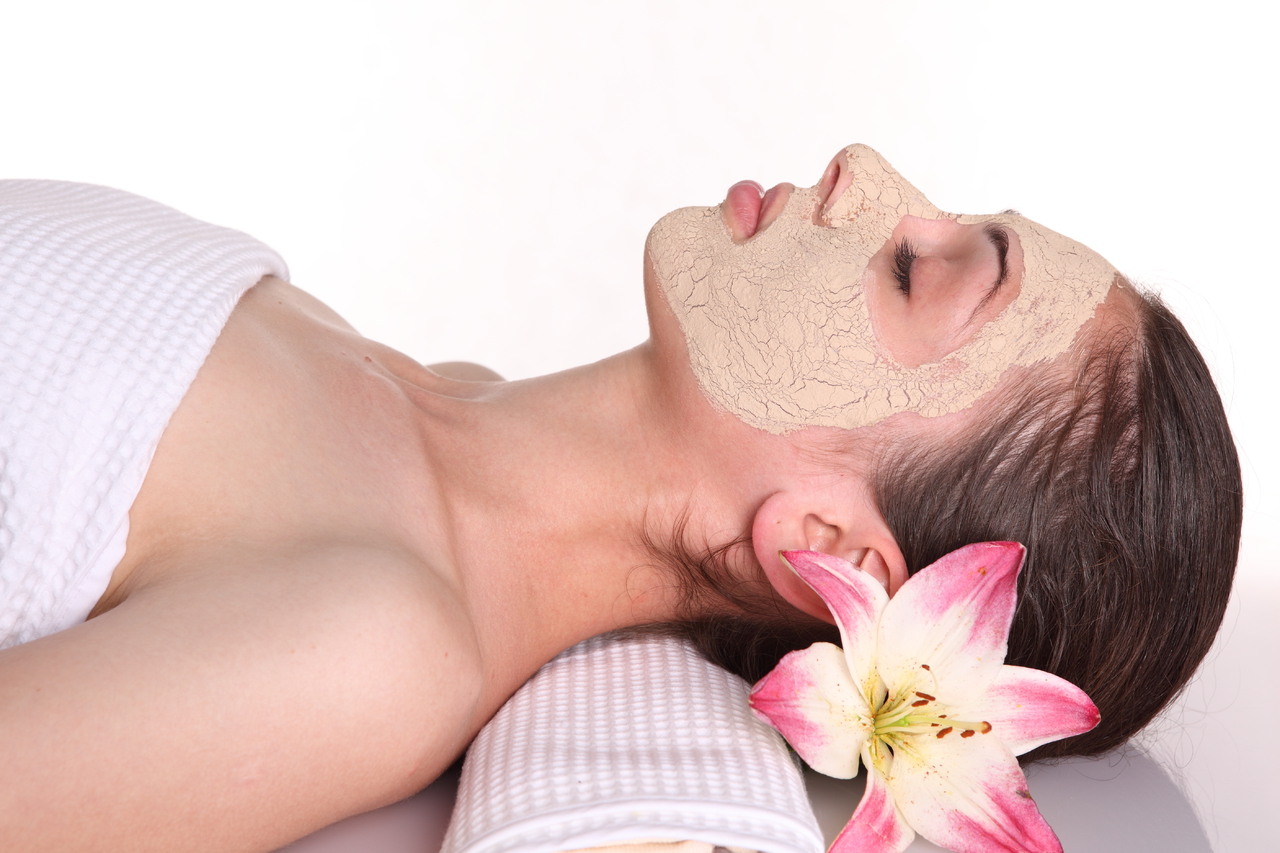
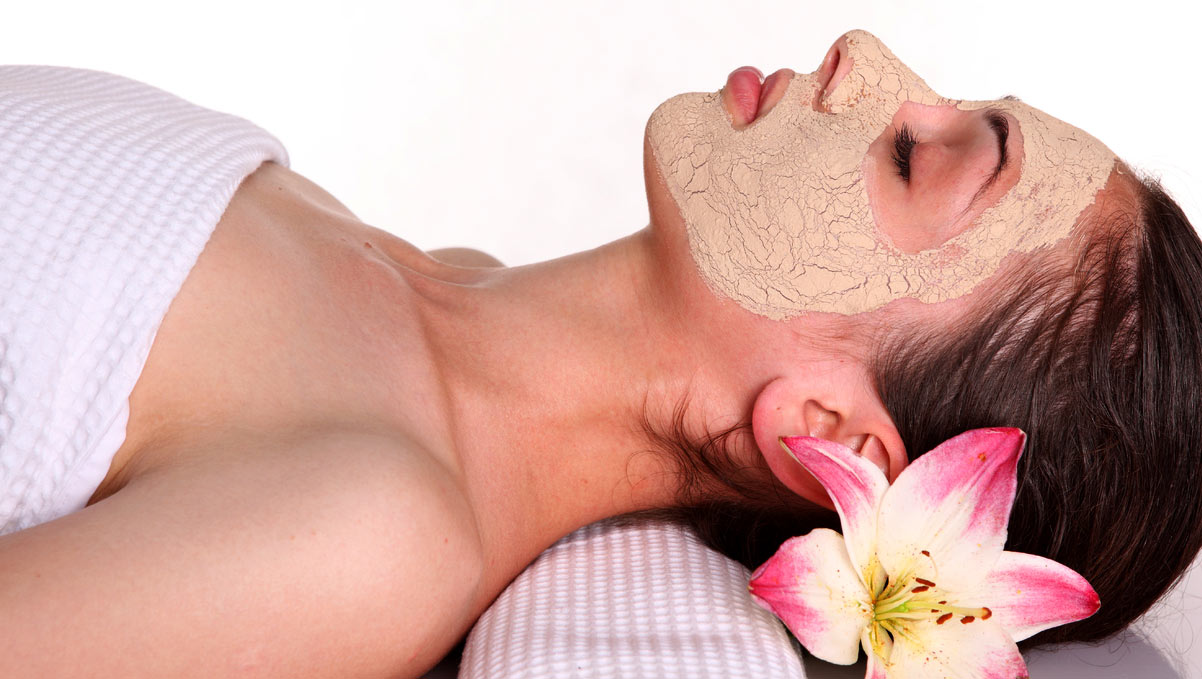
started styling services page

diff --git a/app/assets/stylesheets/services.css.scss b/app/assets/stylesheets/services.css.scss
@@ -1,5 +1,22 @@
 .services {
-  #service_list {
-    margin: 0 auto;
-  }
+	#service_list {
+	margin: 0 auto;
+	}
+
+	#skin{
+		div:first-of-type{
+		background: url('/assets/spa_faceMask.jpg') no-repeat;
+		background-position: center -25px;
+		margin-top:10px;
+		}
+	}
+
+	#sugaring{
+
+		div:first-of-type{
+		background: url('/assets/legs.jpg') no-repeat;
+		background-position: 0 -5px;
+		margin-top:10px;
+		}
+	}
 }

diff --git a/app/assets/stylesheets/home.css.scss b/app/assets/stylesheets/home.css.scss
@@ -3,7 +3,7 @@
 
 @media screen and (max-width: 825px){
 	.home{
-	min-height:375px !important;
+	min-height:350px !important;
 
 		#promotions {
 		margin: 0 auto !important;
@@ -30,6 +30,7 @@ width:auto;
 	img{
 	position:relative;
 	margin:-595px auto;
+	min-height:615px;
 	}
 
 	#promotions {
